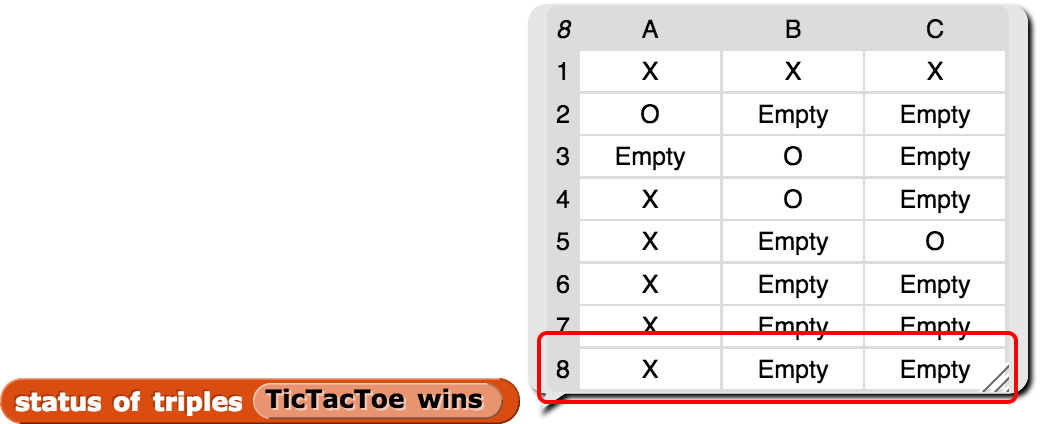
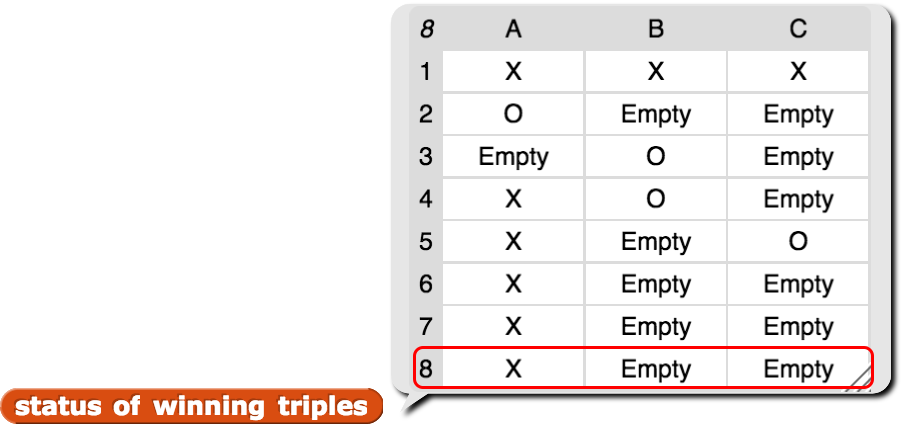
U3L3 TG image edits to fit solution set

diff --git a/cur/teaching-guide/U3/lab-pages/3-tic-tac-toe.html b/cur/teaching-guide/U3/lab-pages/3-tic-tac-toe.html
@@ -86,7 +86,7 @@ In this lab students will delve into the next phase of the Tic-Tac-Toe project w
                             <li>Some students may try to determine if there has been a win in the game by using eight nested <code>if then</code> conditionals as indicated below.  Encourage them instead to understand the elegance and simplicity of using <code>map</code> in solving this problem.<br />
                             <img class="indent" src="/bjc-r/img/3-lists/U3ImageVideoAddendum_img/9conditionalsapproachto TTT.png" height="200" alt=""/>
                             </li>
-								<li>Once the students have written the <code>status of triples</code> block, it will be beneficial for them to compare the status of each winning triple to the corresponding configuration on the board.  For example the eighth entry is the status of the diagonal with squares 3,5,7 and we see the <code>status of triples</code> block reporting {X, Empty, Empty} agreeing with the board configuration. <br />
+								<li>Once the students have written the <code>status of winning triples</code> block, it will be beneficial for them to compare the status of each winning triple to the corresponding configuration on the board.  For example the eighth entry is the status of the diagonal with squares 3,5,7 and we see the <code>status of winning triples</code> block reporting {X, Empty, Empty} agreeing with the board configuration. <br />
                                 <img class="indent" src="/bjc-r/img/3-lists/U3ImageVideoAddendum_img/statusoftriples.png" height="200" alt=""/>
                                 <img src="/bjc-r/img/3-lists/U3ImageVideoAddendum_img/statusoftriplesBoardcrossed.png" height="200" alt=""/>
                                 </li>
